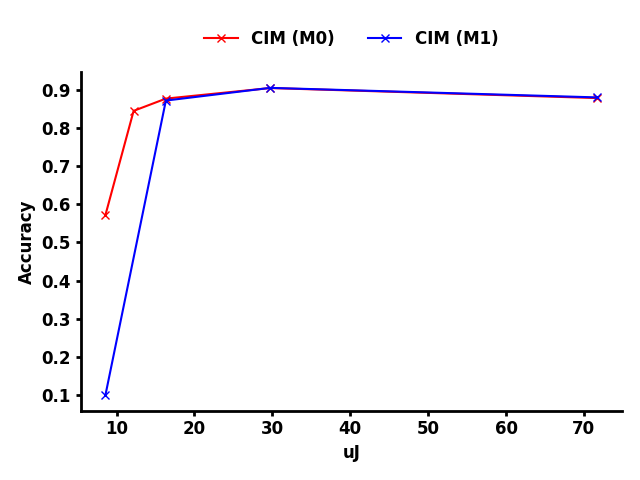
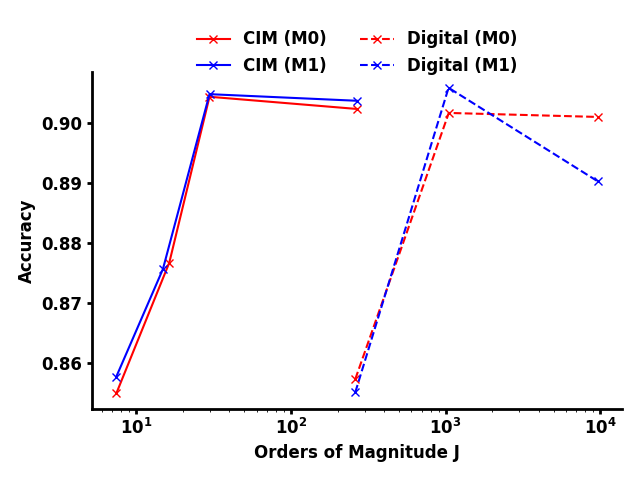
plots

diff --git a/plots/ISCAS_paper_figs.py b/plots/ISCAS_paper_figs.py
@@ -43,14 +43,12 @@ def convex_hull(points):
 
 
 # CIM results
-inp_bits = (pd.read_csv("QuantizedLSTMs - M0_InpBits.csv").dropna(), pd.read_csv("QuantizedLSTMs - M1_InpBits.csv").dropna())
-out_bits = (pd.read_csv("QuantizedLSTMs - M0_OutBits.csv").dropna(), pd.read_csv("QuantizedLSTMs - M1_OutBits.csv").dropna())
-nm_bits  = (pd.read_csv("QuantizedLSTMs - M0_NMbits.csv").dropna(), pd.read_csv("QuantizedLSTMs - M1_NMbits.csv").dropna())
-nmsb     = (pd.read_csv("QuantizedLSTMs - M0_NMSB.csv").dropna(), pd.read_csv("QuantizedLSTMs - M1_NMSB.csv").dropna())
-hidden   = (pd.read_csv("QuantizedLSTMs - M0_hidden.csv").dropna(), pd.read_csv("QuantizedLSTMs - M1_hidden.csv").dropna())
+inp_bits = (pd.read_csv("M0_InpBits.csv").dropna(), pd.read_csv("M1_InpBits.csv").dropna())
+out_bits = (pd.read_csv("M0_OutBits.csv").dropna(), pd.read_csv("M1_OutBits.csv").dropna())
+nm_bits  = (pd.read_csv("M0_NMbits.csv").dropna(), pd.read_csv("M1_NMbits.csv").dropna())
+nmsb     = (pd.read_csv("M0_NMSB.csv").dropna(), pd.read_csv("M1_NMSB.csv").dropna())
+hidden   = (pd.read_csv("M0_hidden.csv").dropna(), pd.read_csv("M1_hidden.csv").dropna())
 
-hidden = nm_bits
-nmsb = nm_bits
 
 max_acc = max(inp_bits[0][['#1','#2','#3']].max().max(), inp_bits[1][['#1','#2','#3']].max().max(), out_bits[0][['#1','#2','#3']].max().max(), out_bits[1][['#1','#2','#3']].max().max(), nm_bits[0][['#1','#2','#3']].max().max(), nm_bits[1][['#1','#2','#3']].max().max(), nmsb[0][['#1','#2','#3']].max().max(), nmsb[1][['#1','#2','#3']].max().max(), hidden[0][['#1','#2','#3']].max().max(), hidden[1][['#1','#2','#3']].max().max() )
 min_acc = min(inp_bits[0][['#1','#2','#3']].min().min(), inp_bits[1][['#1','#2','#3']].min().min(), out_bits[0][['#1','#2','#3']].min().min(), out_bits[1][['#1','#2','#3']].min().min(), nm_bits[0][['#1','#2','#3']].min().min(), nm_bits[1][['#1','#2','#3']].min().min(), nmsb[0][['#1','#2','#3']].min().min(), nmsb[1][['#1','#2','#3']].min().min(), hidden[0][['#1','#2','#3']].min().min(), hidden[1][['#1','#2','#3']].min().min() )
@@ -58,9 +56,9 @@ max_j = max(inp_bits[0][['uJ']].max().max(), inp_bits[1][['uJ']].max().max(), ou
 min_j = min(inp_bits[0][['uJ']].min().min(), inp_bits[1][['uJ']].min().min(), out_bits[0][['uJ']].min().min(), out_bits[1][['uJ']].min().min(), nm_bits[0][['uJ']].min().min(), nm_bits[1][['uJ']].min().min(), nmsb[0][['uJ']].min().min(), nmsb[1][['uJ']].min().min(), hidden[0][['uJ']].min().min(), hidden[1][['uJ']].min().min() )
 
 # digital results
-d_bits = (pd.read_csv("QuantizedLSTMs - M0_dbits.csv").dropna(), pd.read_csv("QuantizedLSTMs - M1_dbits.csv").dropna())
-d_nmsb = (pd.read_csv("QuantizedLSTMs - M0_dmsb.csv").dropna(), pd.read_csv("QuantizedLSTMs - M1_dmsb.csv").dropna())
-d_hidden  = (pd.read_csv("QuantizedLSTMs - M0_dhidden.csv").dropna(), pd.read_csv("QuantizedLSTMs - M1_dhidden.csv").dropna())
+d_bits = (pd.read_csv("M0_dbits.csv").dropna(), pd.read_csv("M1_dbits.csv").dropna())
+d_nmsb = (pd.read_csv("M0_dmsb.csv").dropna(), pd.read_csv("M1_dmsb.csv").dropna())
+d_hidden  = (pd.read_csv("M0_dhidden.csv").dropna(), pd.read_csv("M1_dhidden.csv").dropna())
 
 
 ############
@@ -70,7 +68,7 @@ d_hidden  = (pd.read_csv("QuantizedLSTMs - M0_dhidden.csv").dropna(), pd.read_cs
 #M0
 x = np.concatenate([inp_bits[0]["uJ"], out_bits[0]["uJ"], nm_bits[0]["uJ"], nmsb[0]["uJ"], hidden[0]["uJ"]])
 y = np.concatenate([inp_bits[0][['#1', '#2', '#3']].mean(1), out_bits[0][['#1', '#2', '#3']].mean(1), nm_bits[0][['#1', '#2', '#3']].mean(1), nmsb[0][['#1', '#2', '#3']].mean(1), hidden[0][['#1', '#2', '#3']].mean(1)])
-n = np.concatenate([[str(x)+'ib' for x in inp_bits[0]["Input Bits"]], [str(x)+'ob' for x in out_bits[0]["Output Bits"]], [str(x)+'nc' for x in nm_bits[0]["Non CIM bits"]], [str(x)+'msb' for x in nmsb[0]["Non CIM bits"]], [str(x)+'hi' for x in nmsb[0]["Non CIM bits"]]])
+n = np.concatenate([[str(x)+'ib' for x in inp_bits[0]["Input Bits"]], [str(x)+'ob' for x in out_bits[0]["Output Bits"]], [str(x)+'nc' for x in nm_bits[0]["Non CIM bits"]], [str(x)+'msb' for x in nmsb[0]["N MSB"]], [str(x)+'hi' for x in hidden[0]["Hidden dim"]]])
 
 points_m0 = [(x[i], y[i]) for i in range(len(x))] 
 hull_m0 = reversed(convex_hull(points_m0))
@@ -80,21 +78,30 @@ xcim0, ycim0 =zip(*hull_m0)
 #M1
 x = np.concatenate([inp_bits[1]["uJ"], out_bits[1]["uJ"], nm_bits[1]["uJ"], nmsb[1]["uJ"], hidden[1]["uJ"]])
 y = np.concatenate([inp_bits[1][['#1', '#2', '#3']].mean(1), out_bits[1][['#1', '#2', '#3']].mean(1), nm_bits[1][['#1', '#2', '#3']].mean(1), nmsb[1][['#1', '#2', '#3']].mean(1), hidden[1][['#1', '#2', '#3']].mean(1)])
-n = np.concatenate([[str(x)+'ib' for x in inp_bits[1]["Input Bits"]], [str(x)+'ob' for x in out_bits[1]["Output Bits"]], [str(x)+'nc' for x in nm_bits[1]["Non CIM bits"]], [str(x)+'msb' for x in nmsb[1]["Non CIM bits"]], [str(x)+'hi' for x in nmsb[1]["Non CIM bits"]]])
+n = np.concatenate([[str(x)+'ib' for x in inp_bits[1]["Input Bits"]], [str(x)+'ob' for x in out_bits[1]["Output Bits"]], [str(x)+'nc' for x in nm_bits[1]["Non CIM bits"]], [str(x)+'msb' for x in nmsb[1]["N MSB"]], [str(x)+'hi' for x in hidden[1]["Hidden dim"]]])
 
 points_m1 = [(x[i], y[i]) for i in range(len(x))] 
 hull_m1 = reversed(convex_hull(points_m1))
 xcim1, ycim1 =zip(*hull_m1)
 
-# #digital M0
-# x = np.concatenate([inp_bits["uJ"], out_bits["uJ"], nm_bits["uJ"], nmsb["uJ"]])
-# y = np.concatenate([inp_bits[['#1', '#2', '#3']].mean(1), out_bits[['#1', '#2', '#3']].mean(1), nm_bits[['#1', '#2', '#3']].mean(1), nmsb[['#1', '#2', '#3']].mean(1)])
-# n = np.concatenate([[x+'ib' for x in inp_bits["Input Bits"]], [x+'ob' for x in out_bits["Output Bits"]], [x+'nc' for x in nm_bits["Non CIM bits"]], [str(x)+'msb' for x in nmsb["N MSB"]]])
+#digital M0
+x = np.concatenate([d_bits[0]["uJ"], d_nmsb[0]["uJ"], d_hidden[0]["uJ"]])
+y = np.concatenate([d_bits[0][['#1', '#2', '#3']].mean(1), d_nmsb[0][['#1', '#2', '#3']].mean(1), d_hidden[0][['#1', '#2', '#3']].mean(1)])
+n = np.concatenate([[str(x)+'ib' for x in d_bits[0]["Bits"]], [str(x)+'msb' for x in d_nmsb[0]["N MSB"]], [str(x)+'hi' for x in d_hidden[0]["Hidden dim"]]])
 
-# #digital M1
-# x = np.concatenate([inp_bits["uJ"], out_bits["uJ"], nm_bits["uJ"], nmsb["uJ"]])
-# y = np.concatenate([inp_bits[['#1', '#2', '#3']].mean(1), out_bits[['#1', '#2', '#3']].mean(1), nm_bits[['#1', '#2', '#3']].mean(1), nmsb[['#1', '#2', '#3']].mean(1)])
-# n = np.concatenate([[x+'ib' for x in inp_bits["Input Bits"]], [x+'ob' for x in out_bits["Output Bits"]], [x+'nc' for x in nm_bits["Non CIM bits"]], [str(x)+'msb' for x in nmsb["N MSB"]]])
+d_points_m0 = [(x[i], y[i]) for i in range(len(x))] 
+d_hull_m0 = reversed(convex_hull(d_points_m0))
+d_xcim0, d_ycim0 =zip(*d_hull_m0)
+
+
+#digital M1
+x = np.concatenate([d_bits[1]["uJ"], d_nmsb[1]["uJ"], d_hidden[1]["uJ"]])
+y = np.concatenate([d_bits[1][['#1', '#2', '#3']].mean(1), d_nmsb[1][['#1', '#2', '#3']].mean(1), d_hidden[1][['#1', '#2', '#3']].mean(1)])
+n = np.concatenate([[str(x)+'ib' for x in d_bits[1]["Bits"]], [str(x)+'msb' for x in d_nmsb[1]["N MSB"]], [str(x)+'hi' for x in d_hidden[1]["Hidden dim"]]])
+
+d_points_m1 = [(x[i], y[i]) for i in range(len(x))] 
+d_hull_m1 = reversed(convex_hull(d_points_m1))
+d_xcim1, d_ycim1 =zip(*d_hull_m1)
 
 
 plt.rcParams["font.weight"] = "bold"
@@ -119,14 +126,15 @@ axes.yaxis.set_tick_params(width=2)
 
 axes.plot(xcim0, ycim0,'x-',color= 'red', label="CIM (M0)")
 axes.plot(xcim1, ycim1,'x-',color= 'blue', label="CIM (M1)")
-# axes.plot(,'x-',color=, label="Digital (M0)")
-# axes.plot(,'x-',color=, label="Digital (M1)")
+axes.plot(d_xcim0, d_ycim0,'x--',color= 'red', label="Digital (M0)")
+axes.plot(d_xcim1, d_ycim1,'x--',color= 'blue', label="Digital (M1)")
 
 
-
-axes.set_xlabel('uJ')
+axes.set_xlabel('Orders of Magnitude J')
 axes.set_ylabel('Accuracy')
-plt.legend(loc='upper center', bbox_to_anchor=(0.5, 1.17), ncol=4, frameon=False)
+plt.legend(loc='upper center', bbox_to_anchor=(0.5, 1.17), ncol=2, frameon=False)
+
+axes.set_xscale('log')
 
 plt.tight_layout()
 plt.savefig('frontiers.png')
@@ -163,15 +171,15 @@ axes.yaxis.set_tick_params(width=2)
 sc1 = axes.scatter([.5]*7, list(inp_bits[0]['Input Bits']), c = list(inp_bits[0][['#1','#2','#3']].mean(1)) , marker = "s",  vmin=min_acc, vmax=max_acc, s=sym_marker_size)
 sc2 = axes.scatter([1.5]*7, list(out_bits[0]['Output Bits']), c = list(out_bits[0][['#1','#2','#3']].mean(1)) , marker = "s",  vmin=min_acc, vmax=max_acc, s=sym_marker_size)
 sc3 = axes.scatter([2.5]*11, list(nm_bits[0]['Non CIM bits']), c = list(nm_bits[0][['#1','#2','#3']].mean(1)) , marker = "s",  vmin=min_acc, vmax=max_acc, s=sym_marker_size)
-sc4 = axes.scatter([3.5]*11, list(nmsb[0]['Non CIM bits']), c = list(nmsb[0][['#1','#2','#3']].mean(1)) , marker = "s",  vmin=min_acc, vmax=max_acc, s=sym_marker_size)
-sc5 = axes.scatter([4.5]*11, list(hidden[0]['Non CIM bits']), c = list(nmsb[0][['#1','#2','#3']].mean(1)) , marker = "s",  vmin=min_acc, vmax=max_acc, s=sym_marker_size)
+sc4 = axes.scatter([3.5]*6, list(nmsb[0]['N MSB']), c = list(nmsb[0][['#1','#2','#3']].mean(1)) , marker = "s",  vmin=min_acc, vmax=max_acc, s=sym_marker_size)
+sc5 = axes.scatter([4.5]*5, [1,2,3,4,5], c = list(hidden[0][['#1','#2','#3']].mean(1)) , marker = "s",  vmin=min_acc, vmax=max_acc, s=sym_marker_size)
 
 
 sc6 = axes.scatter([1]*7, list(inp_bits[1]['Input Bits']), c = list(inp_bits[1][['#1','#2','#3']].mean(1)) , marker = "s",  vmin=min_acc, vmax=max_acc, s=sym_marker_size)
 sc7 = axes.scatter([2]*7, list(out_bits[1]['Output Bits']), c = list(out_bits[1][['#1','#2','#3']].mean(1)) , marker = "s",  vmin=min_acc, vmax=max_acc, s=sym_marker_size)
 sc8 = axes.scatter([3]*11, list(nm_bits[1]['Non CIM bits']), c = list(nm_bits[1][['#1','#2','#3']].mean(1)) , marker = "s",  vmin=min_acc, vmax=max_acc, s=sym_marker_size)
-sc9 = axes.scatter([4]*11, list(nmsb[1]['Non CIM bits']), c = list(nmsb[1][['#1','#2','#3']].mean(1)) , marker = "s",  vmin=min_acc, vmax=max_acc, s=sym_marker_size)
-sc10 = axes.scatter([5]*11, list(hidden[1]['Non CIM bits']), c = list(nmsb[1][['#1','#2','#3']].mean(1)) , marker = "s",  vmin=min_acc, vmax=max_acc, s=sym_marker_size)
+sc9 = axes.scatter([4]*6, list(nmsb[1]['N MSB']), c = list(nmsb[1][['#1','#2','#3']].mean(1)) , marker = "s",  vmin=min_acc, vmax=max_acc, s=sym_marker_size)
+sc10 = axes.scatter([5]*5, [1,2,3,4,5], c = list(hidden[1][['#1','#2','#3']].mean(1)) , marker = "s",  vmin=min_acc, vmax=max_acc, s=sym_marker_size)
 
 axes.set_xlabel('')
 axes.set_ylabel('# Bits/Blocks/Hidden')
@@ -229,15 +237,15 @@ axes.yaxis.set_tick_params(width=2)
 sc1 = axes.scatter([.5]*7, list(inp_bits[0]['Input Bits']), c = list(inp_bits[0][['uJ']].mean(1)) , marker = "s",  vmin=min_j, vmax=max_j, s=sym_marker_size)
 sc2 = axes.scatter([1.5]*7, list(out_bits[0]['Output Bits']), c = list(out_bits[0][['uJ']].mean(1)) , marker = "s",  vmin=min_j, vmax=max_j, s=sym_marker_size)
 sc3 = axes.scatter([2.5]*11, list(nm_bits[0]['Non CIM bits']), c = list(nm_bits[0][['uJ']].mean(1)) , marker = "s",  vmin=min_j, vmax=max_j, s=sym_marker_size)
-sc4 = axes.scatter([3.5]*11, list(nmsb[0]['Non CIM bits']), c = list(nmsb[0][['uJ']].mean(1)) , marker = "s",  vmin=min_j, vmax=max_j, s=sym_marker_size)
-sc5 = axes.scatter([4.5]*11, list(hidden[0]['Non CIM bits']), c = list(nmsb[0][['uJ']].mean(1)) , marker = "s",  vmin=min_j, vmax=max_j, s=sym_marker_size)
+sc4 = axes.scatter([3.5]*6, list(nmsb[0]['N MSB']), c = list(nmsb[0][['uJ']].mean(1)) , marker = "s",  vmin=min_j, vmax=max_j, s=sym_marker_size)
+sc5 = axes.scatter([4.5]*5, [1,2,3,4,5], c = list(hidden[0][['uJ']].mean(1)) , marker = "s",  vmin=min_j, vmax=max_j, s=sym_marker_size)
 
 
 sc6 = axes.scatter([1]*7, list(inp_bits[1]['Input Bits']), c = list(inp_bits[1][['uJ']].mean(1)) , marker = "s",  vmin=min_j, vmax=max_j, s=sym_marker_size)
 sc7 = axes.scatter([2]*7, list(out_bits[1]['Output Bits']), c = list(out_bits[1][['uJ']].mean(1)) , marker = "s",  vmin=min_j, vmax=max_j, s=sym_marker_size)
 sc8 = axes.scatter([3]*11, list(nm_bits[1]['Non CIM bits']), c = list(nm_bits[1][['uJ']].mean(1)) , marker = "s",  vmin=min_j, vmax=max_j, s=sym_marker_size)
-sc9 = axes.scatter([4]*11, list(nmsb[1]['Non CIM bits']), c = list(nmsb[1][['uJ']].mean(1)) , marker = "s",  vmin=min_j, vmax=max_j, s=sym_marker_size)
-sc10 = axes.scatter([5]*11, list(hidden[1]['Non CIM bits']), c = list(nmsb[1][['uJ']].mean(1)) , marker = "s",  vmin=min_j, vmax=max_j, s=sym_marker_size)
+sc9 = axes.scatter([4]*6, list(nmsb[1]['N MSB']), c = list(nmsb[1][['uJ']].mean(1)) , marker = "s",  vmin=min_j, vmax=max_j, s=sym_marker_size)
+sc10 = axes.scatter([5]*5, [1,2,3,4,5], c = list(hidden[1][['uJ']].mean(1)) , marker = "s",  vmin=min_j, vmax=max_j, s=sym_marker_size)
 
 axes.set_xlabel('')
 axes.set_ylabel('# Bits/Blocks/Hidden')
